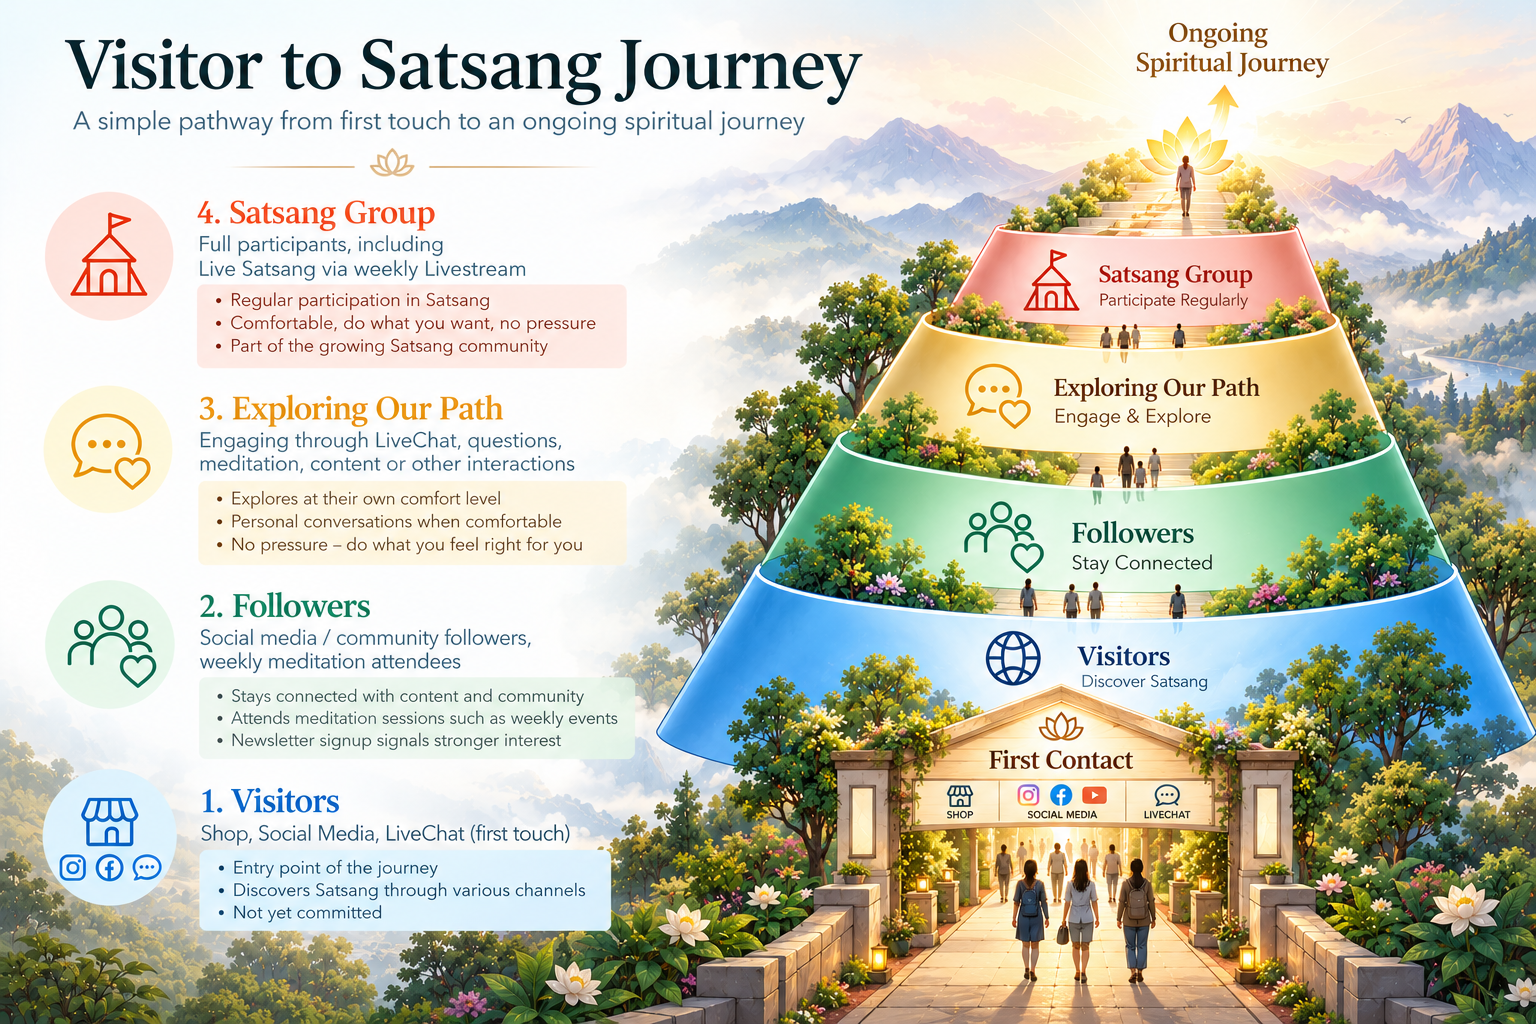
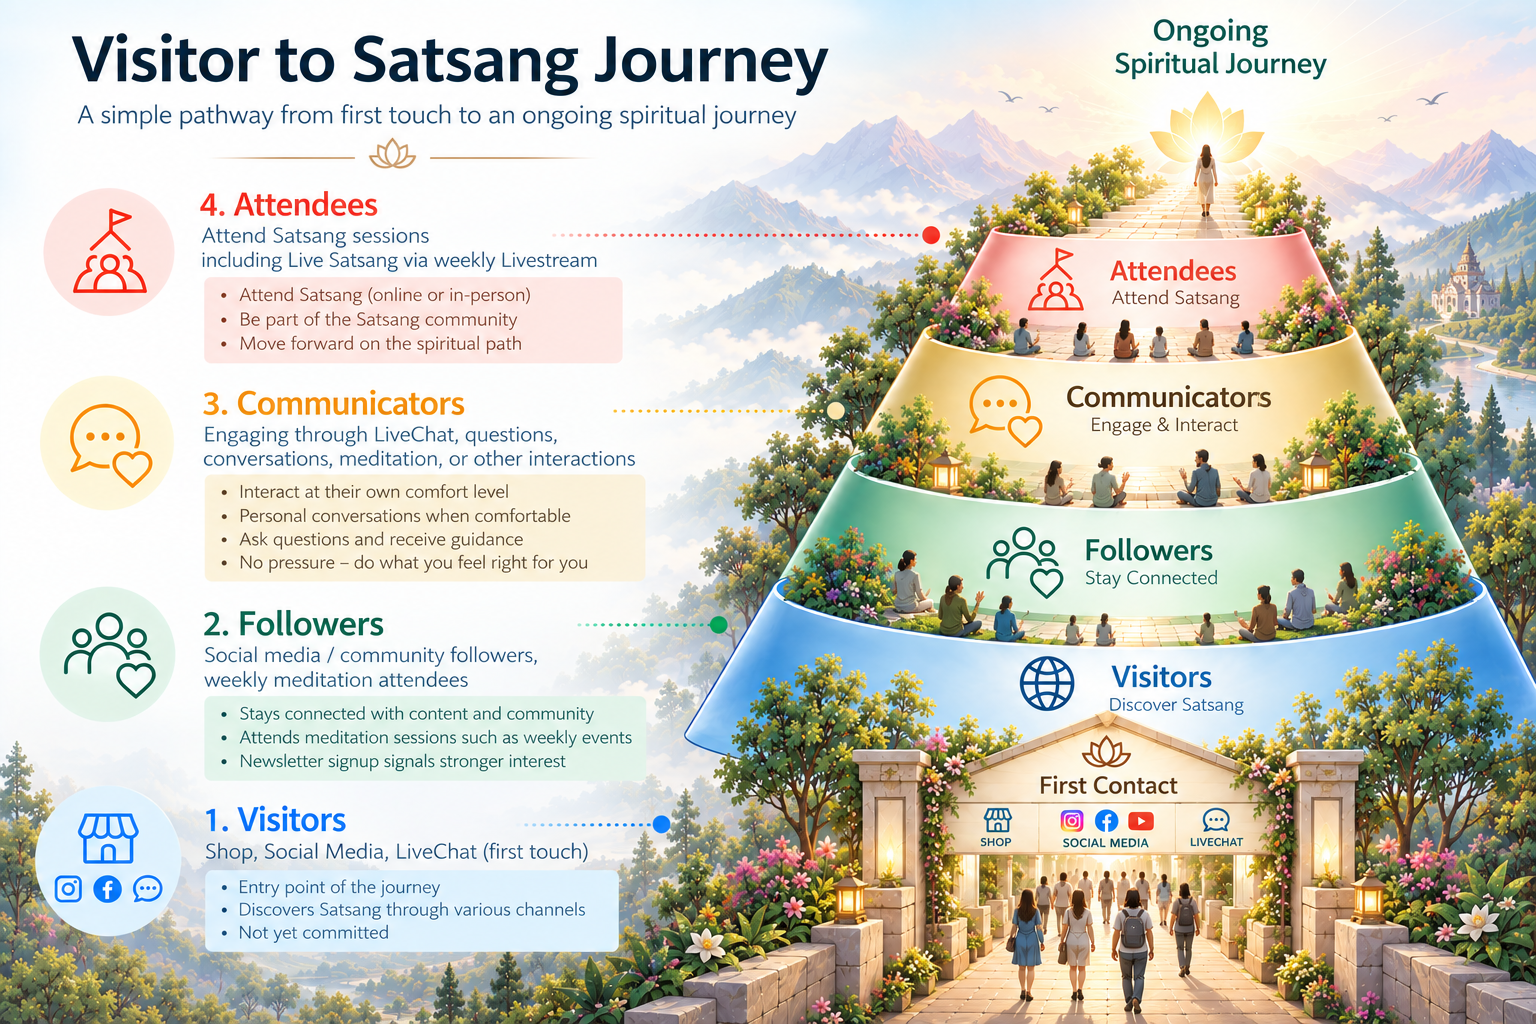
UI changes to security tab

diff --git a/public/index.html b/public/index.html
@@ -426,7 +426,12 @@ nav .pip.r{background:var(--sage-wash);color:var(--sage)}
 .sp-stat .lbl2{font-size:14px;color:var(--ink-3);margin-bottom:3px}
 .sp-stat .val{font-size:22px;font-weight:600}
 .sp-grid{display:grid;grid-template-columns:1fr 1fr;gap:16px}
-.sp-card{background:var(--card);border:1px solid var(--line);border-radius:14px;padding:18px}
+.sp-card{background:var(--card);border:1px solid var(--line);border-radius:14px;padding:18px;min-width:0;max-width:100%;overflow-x:auto}
+.sp-grid>*{min-width:0}
+.sp-scroll{overflow-x:auto;padding-bottom:6px}
+.sp-sat-grid{display:grid;grid-template-columns:repeat(3,minmax(230px,1fr));gap:16px}
+.sp-sat-grid>div{min-width:0}
+#seekerPage{max-width:100%;overflow-x:auto}
 .sp-card:hover{border-color:var(--deep-2);background:var(--deep-wash);box-shadow:0 4px 16px rgba(11,143,196,.14)}
 .sp-card.full{grid-column:1 / -1}
 .sp-card.amber-accent{border-left:3px solid var(--amber)}
@@ -860,7 +865,7 @@ nav .pip.r{background:var(--sage-wash);color:var(--sage)}
     <div class="card pad" style="margin-top:16px">
       <h2 class="sec">Visitor to Satsang journey</h2>
       <p class="sub">Reference pathway — the stages a seeker moves through, from first contact to an ongoing spiritual journey.</p>
-      <img src="assets/pyramid-funnel.png" alt="Visitor to Satsang Journey — a pathway from first contact through Visitors, Followers, Exploring Our Path, and Satsang Group to an ongoing spiritual journey"
+      <img src="assets/pyramid-funnel.png" alt="Visitor to Satsang Journey — a pathway from first contact through Visitors, Followers, Communicators and Attendees to an ongoing spiritual journey"
         style="width:100%;height:auto;display:block;border-radius:10px">
     </div>
     <div id="sampleDashWrap" style="display:none;position:fixed;inset:0;z-index:400;background:#fff">
@@ -1640,13 +1645,12 @@ async function openSeekerPage(id){
     <div class="sp-grid" style="margin-top:20px">
       ${spSkeletonCard('sp-c-contact')}
       ${spSkeletonCard('sp-c-more')}
-      ${spSkeletonCard('sp-c-skills')}
-      ${spSkeletonCard('sp-c-satsangs')}
+      ${spSkeletonCard('sp-c-skills','full')}
+      ${spSkeletonCard('sp-c-satsangs','full')}
       ${spSkeletonCard('sp-c-background','full')}
       ${spSkeletonCard('sp-c-platform','full')}
       ${spSkeletonCard('sp-c-milestones')}
       ${spSkeletonCard('sp-c-notes','amber-accent')}
-      ${spSkeletonCard('sp-c-cathist','full')}
       ${spSkeletonCard('sp-c-conductor','full')}
     </div>`;
 
@@ -1663,7 +1667,6 @@ async function openSeekerPage(id){
     spRevealCard('sp-c-contact', spBuildContact(LIVE_SEEKER_DETAIL));
     spRevealCard('sp-c-more', spBuildMoreContact(LIVE_SEEKER_DETAIL));
     spRevealCard('sp-c-platform', spBuildPlatform(LIVE_SEEKER_DETAIL));
-    spRevealCard('sp-c-cathist', spBuildCatHistory(LIVE_SEEKER_DETAIL));
   }).catch(err=>{
     el.innerHTML = `<button class="btn ghost sm" onclick="closeSeekerPage()">\u2190 Back</button>
       <p class="sub2" style="margin-top:10px">Could not load: ${esc(err.message||'')}</p>`;
@@ -2197,14 +2200,14 @@ function spBuildSkills(s){
         <option value="High">High</option><option value="Medium">Medium</option><option value="Low">Low</option>
       </select>
       <button class="mini" onclick="addSeekerSkill(this)" style="width:auto;padding:0 12px;height:28px">Add</button>
-    </div>`, 'sp-c-skills', skills.length);
+    </div>`, 'sp-c-skills full', skills.length);
 }
 function spBuildSatsangs(s){
   if(LIVE_SATSANG_DEFS===null) loadSatsangDefsForSp();
   const satsangLinks = s.satsangLinks || {upay:[],vyashti:[],bhav:[]};
   const linkedTotal = ['bhav','upay','vyashti'].reduce((n,k)=>n+((satsangLinks[k])||[]).length, 0);
   const satsangGroups = [['bhav','Bhav satsang'],['upay','Upay satsang'],['vyashti','Vyashti satsang']];
-  return spCard('pink', 'users', 'Satsangs', `<div style="display:grid;grid-template-columns:1fr 1fr 1fr;gap:12px">${satsangGroups.map(([type,label])=>{
+  return spCard('pink', 'users', 'Satsangs', `<div class="sp-scroll"><div class="sp-sat-grid">${satsangGroups.map(([type,label])=>{
     const rows = satsangLinks[type] || [];
     const linkedIds = new Set(rows.map(r=>String(r.Satsang_ID)));
     const pickable = (LIVE_SATSANG_DEFS||[]).filter(d=>(d.ST_Name||'').toLowerCase()===type && !linkedIds.has(String(d.Satsang_ID)));
@@ -2213,13 +2216,13 @@ function spBuildSatsangs(s){
           <button class="mini" onclick="removeSpSatsangLink('${type}', ${r.Satsang_ID}, this)" style="width:22px;height:22px;color:var(--rose)">&times;</button>
         </div>`).join('') : '<p class="sub2">Not linked yet.</p>'}
       <div style="display:flex;gap:6px;margin-top:4px">
-        <select id="spSatsangAdd_${type}" style="flex:1;border-radius:999px;padding:5px 8px;font-size:13.5px;border:1px solid var(--line-2)">
+        <select id="spSatsangAdd_${type}" style="flex:1;min-width:0;max-width:100%;border-radius:999px;padding:5px 8px;font-size:13.5px;border:1px solid var(--line-2)">
           <option value="">${LIVE_SATSANG_DEFS===null?'Loading\u2026':(pickable.length?'Add\u2026':'None left')}</option>
           ${pickable.map(d=>`<option value="${d.Satsang_ID}">${esc(d.Satsang_Name)}</option>`).join('')}
         </select>
         <button class="mini" onclick="addSpSatsangLink('${type}', this)" style="width:auto;padding:0 8px;height:26px;font-size:13px">Add</button>
       </div></div>`;
-  }).join('')}</div>`, 'sp-c-satsangs', linkedTotal);
+  }).join('')}</div></div>`, 'sp-c-satsangs full', linkedTotal);
 }
 function spBuildBackground(s){
   const ml = s.masterlist || {};
@@ -2273,11 +2276,6 @@ function spBuildInternalNotes(s){
     <textarea id="internalNoteInput" rows="2" placeholder="Visible only to your team." style="width:100%;border-radius:10px;padding:6px 10px;font-size:14.5px;border:1px solid var(--line-2);box-sizing:border-box;font-family:inherit;resize:vertical;margin-top:8px"></textarea>
     <div class="btnrow" style="margin-top:8px"><button class="btn ghost" onclick="saveSeekerInternalNote(this)">Save note</button></div>`, 'amber-accent sp-c-notes');
 }
-function spBuildCatHistory(s){
-  return spCard('sage', 'history', 'Category history', (s.categories||[]).length
-    ? `<div style="display:grid;grid-template-columns:1fr 1fr;gap:8px">${s.categories.map(c=>`<div class="sp-cathist-row"><span>${categoryTag(c.Category_Name)}</span><span class="sub2">${esc(c.Ver_From_DT||'')} \u2192 ${c.Ver_To_DT && new Date(c.Ver_To_DT) < new Date('9999-01-01') ? esc(c.Ver_To_DT) : 'present'}</span></div>`).join('')}</div>`
-    : '<p class="sub2">No category history recorded.</p>', 'full sp-c-cathist');
-}
 function spBuildConductorNotes(s){
   const notes = s.notes || [];
   return spCard('rose', 'message', 'Conductor notes on this seeker', notes.length
@@ -2298,7 +2296,7 @@ function renderSeekerPage(){
     <button class="btn ghost sm" onclick="closeSeekerPage()" style="margin-bottom:16px">\u2190 Back</button>
     ${spBuildHeader(s)}
     <div class="sp-grid" style="margin-top:20px">
-      ${spBuildContact(s)}${spBuildMoreContact(s)}${spBuildSkills(s)}${spBuildSatsangs(s)}${spBuildBackground(s)}${spBuildPlatform(s)}${spBuildMilestones(s)}${spBuildInternalNotes(s)}${spBuildCatHistory(s)}${spBuildConductorNotes(s)}
+      ${spBuildContact(s)}${spBuildMoreContact(s)}${spBuildSkills(s)}${spBuildSatsangs(s)}${spBuildBackground(s)}${spBuildPlatform(s)}${spBuildMilestones(s)}${spBuildInternalNotes(s)}${spBuildConductorNotes(s)}
     </div>`;
 }
 
